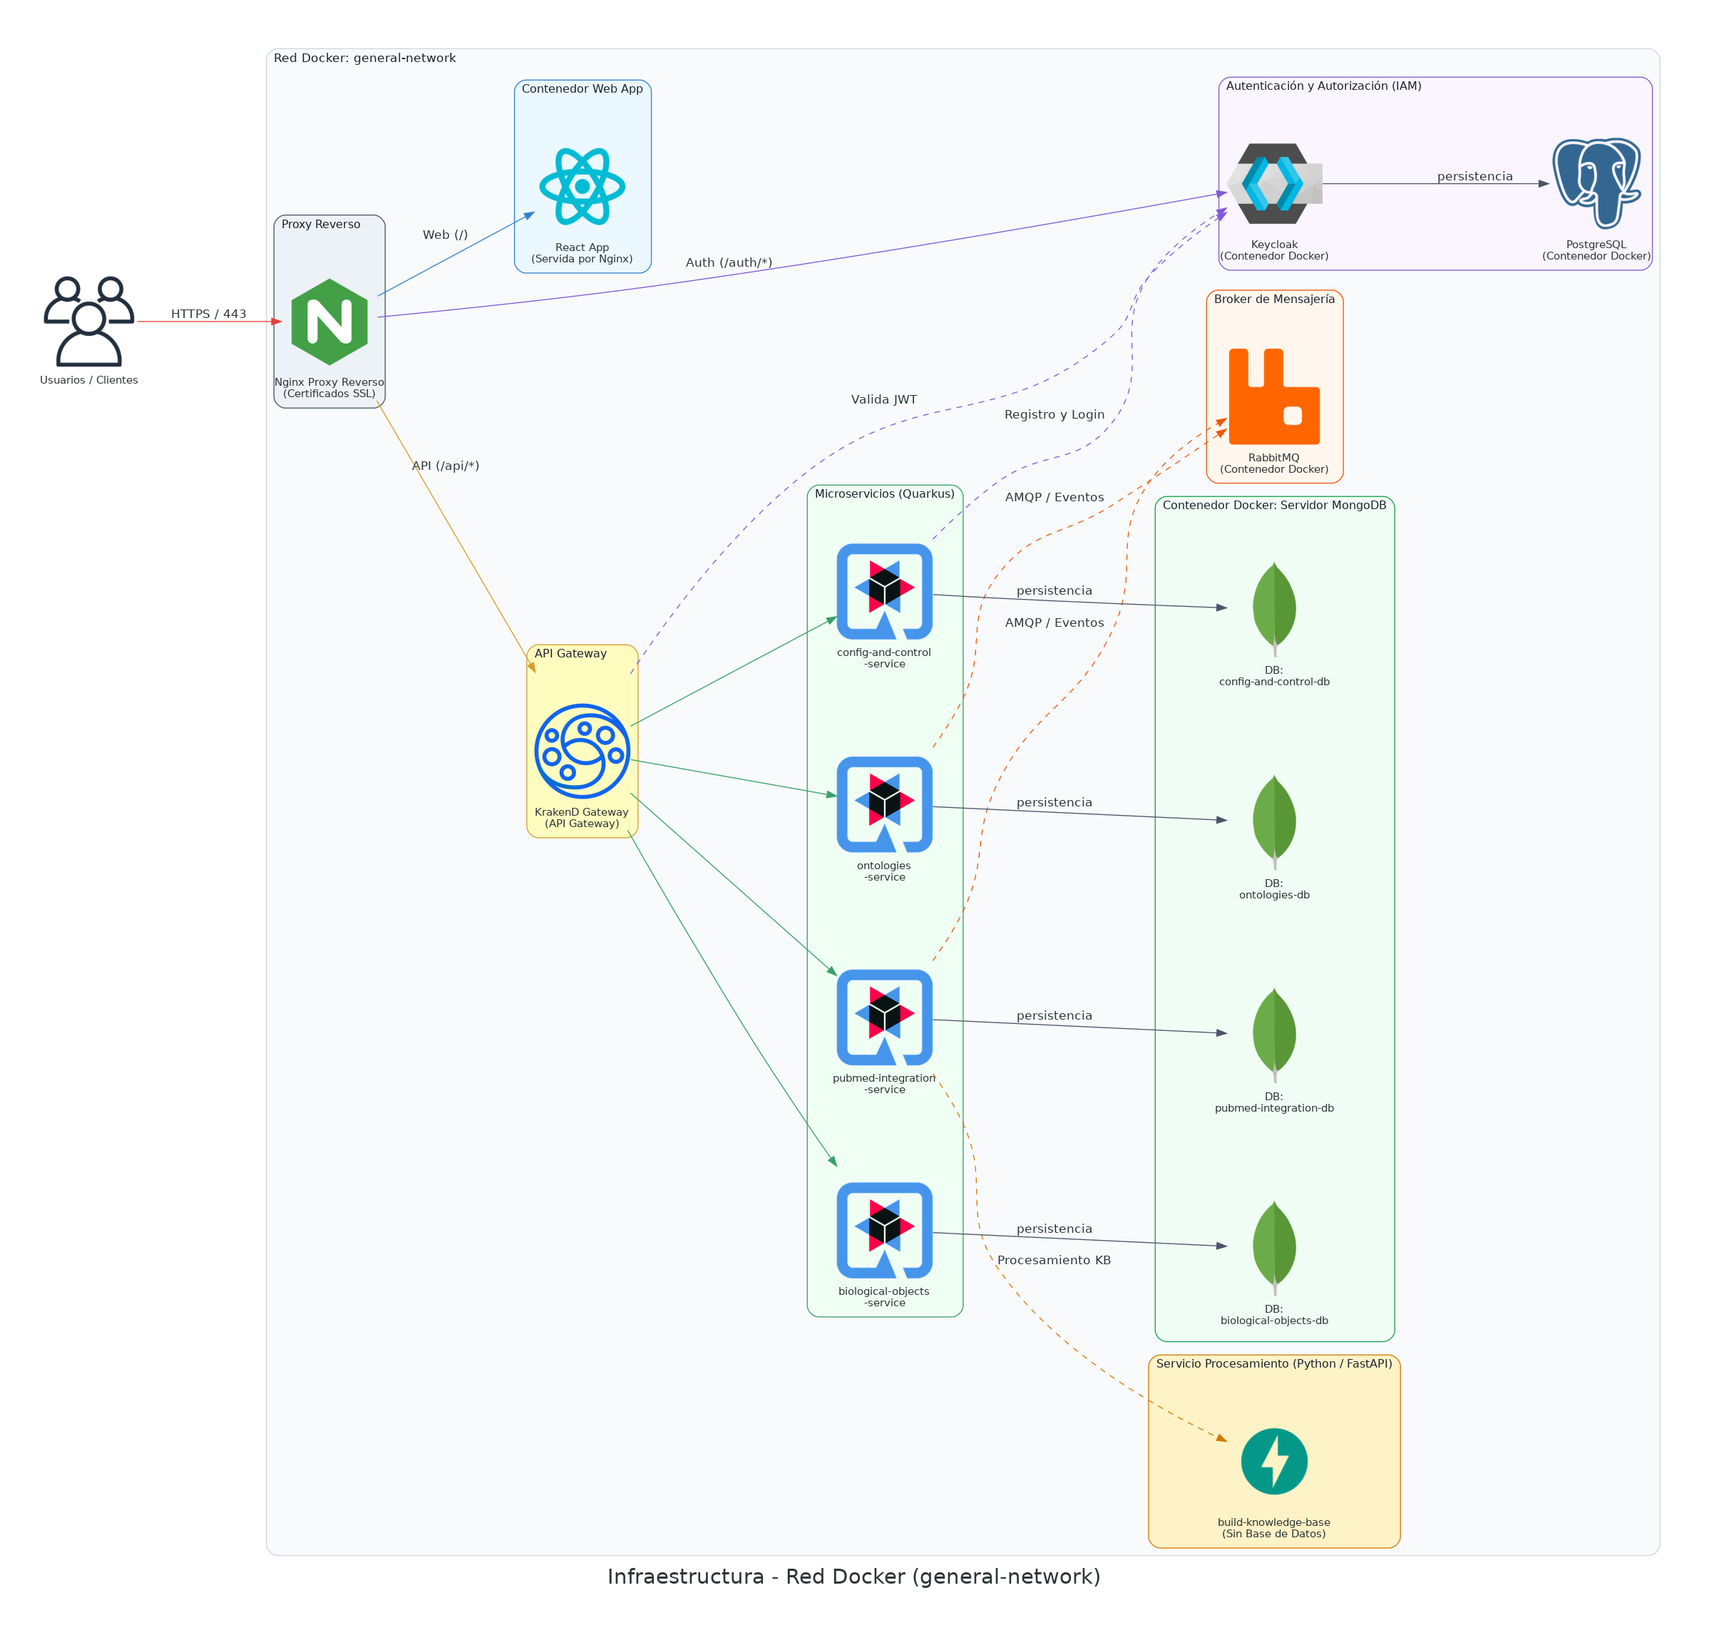
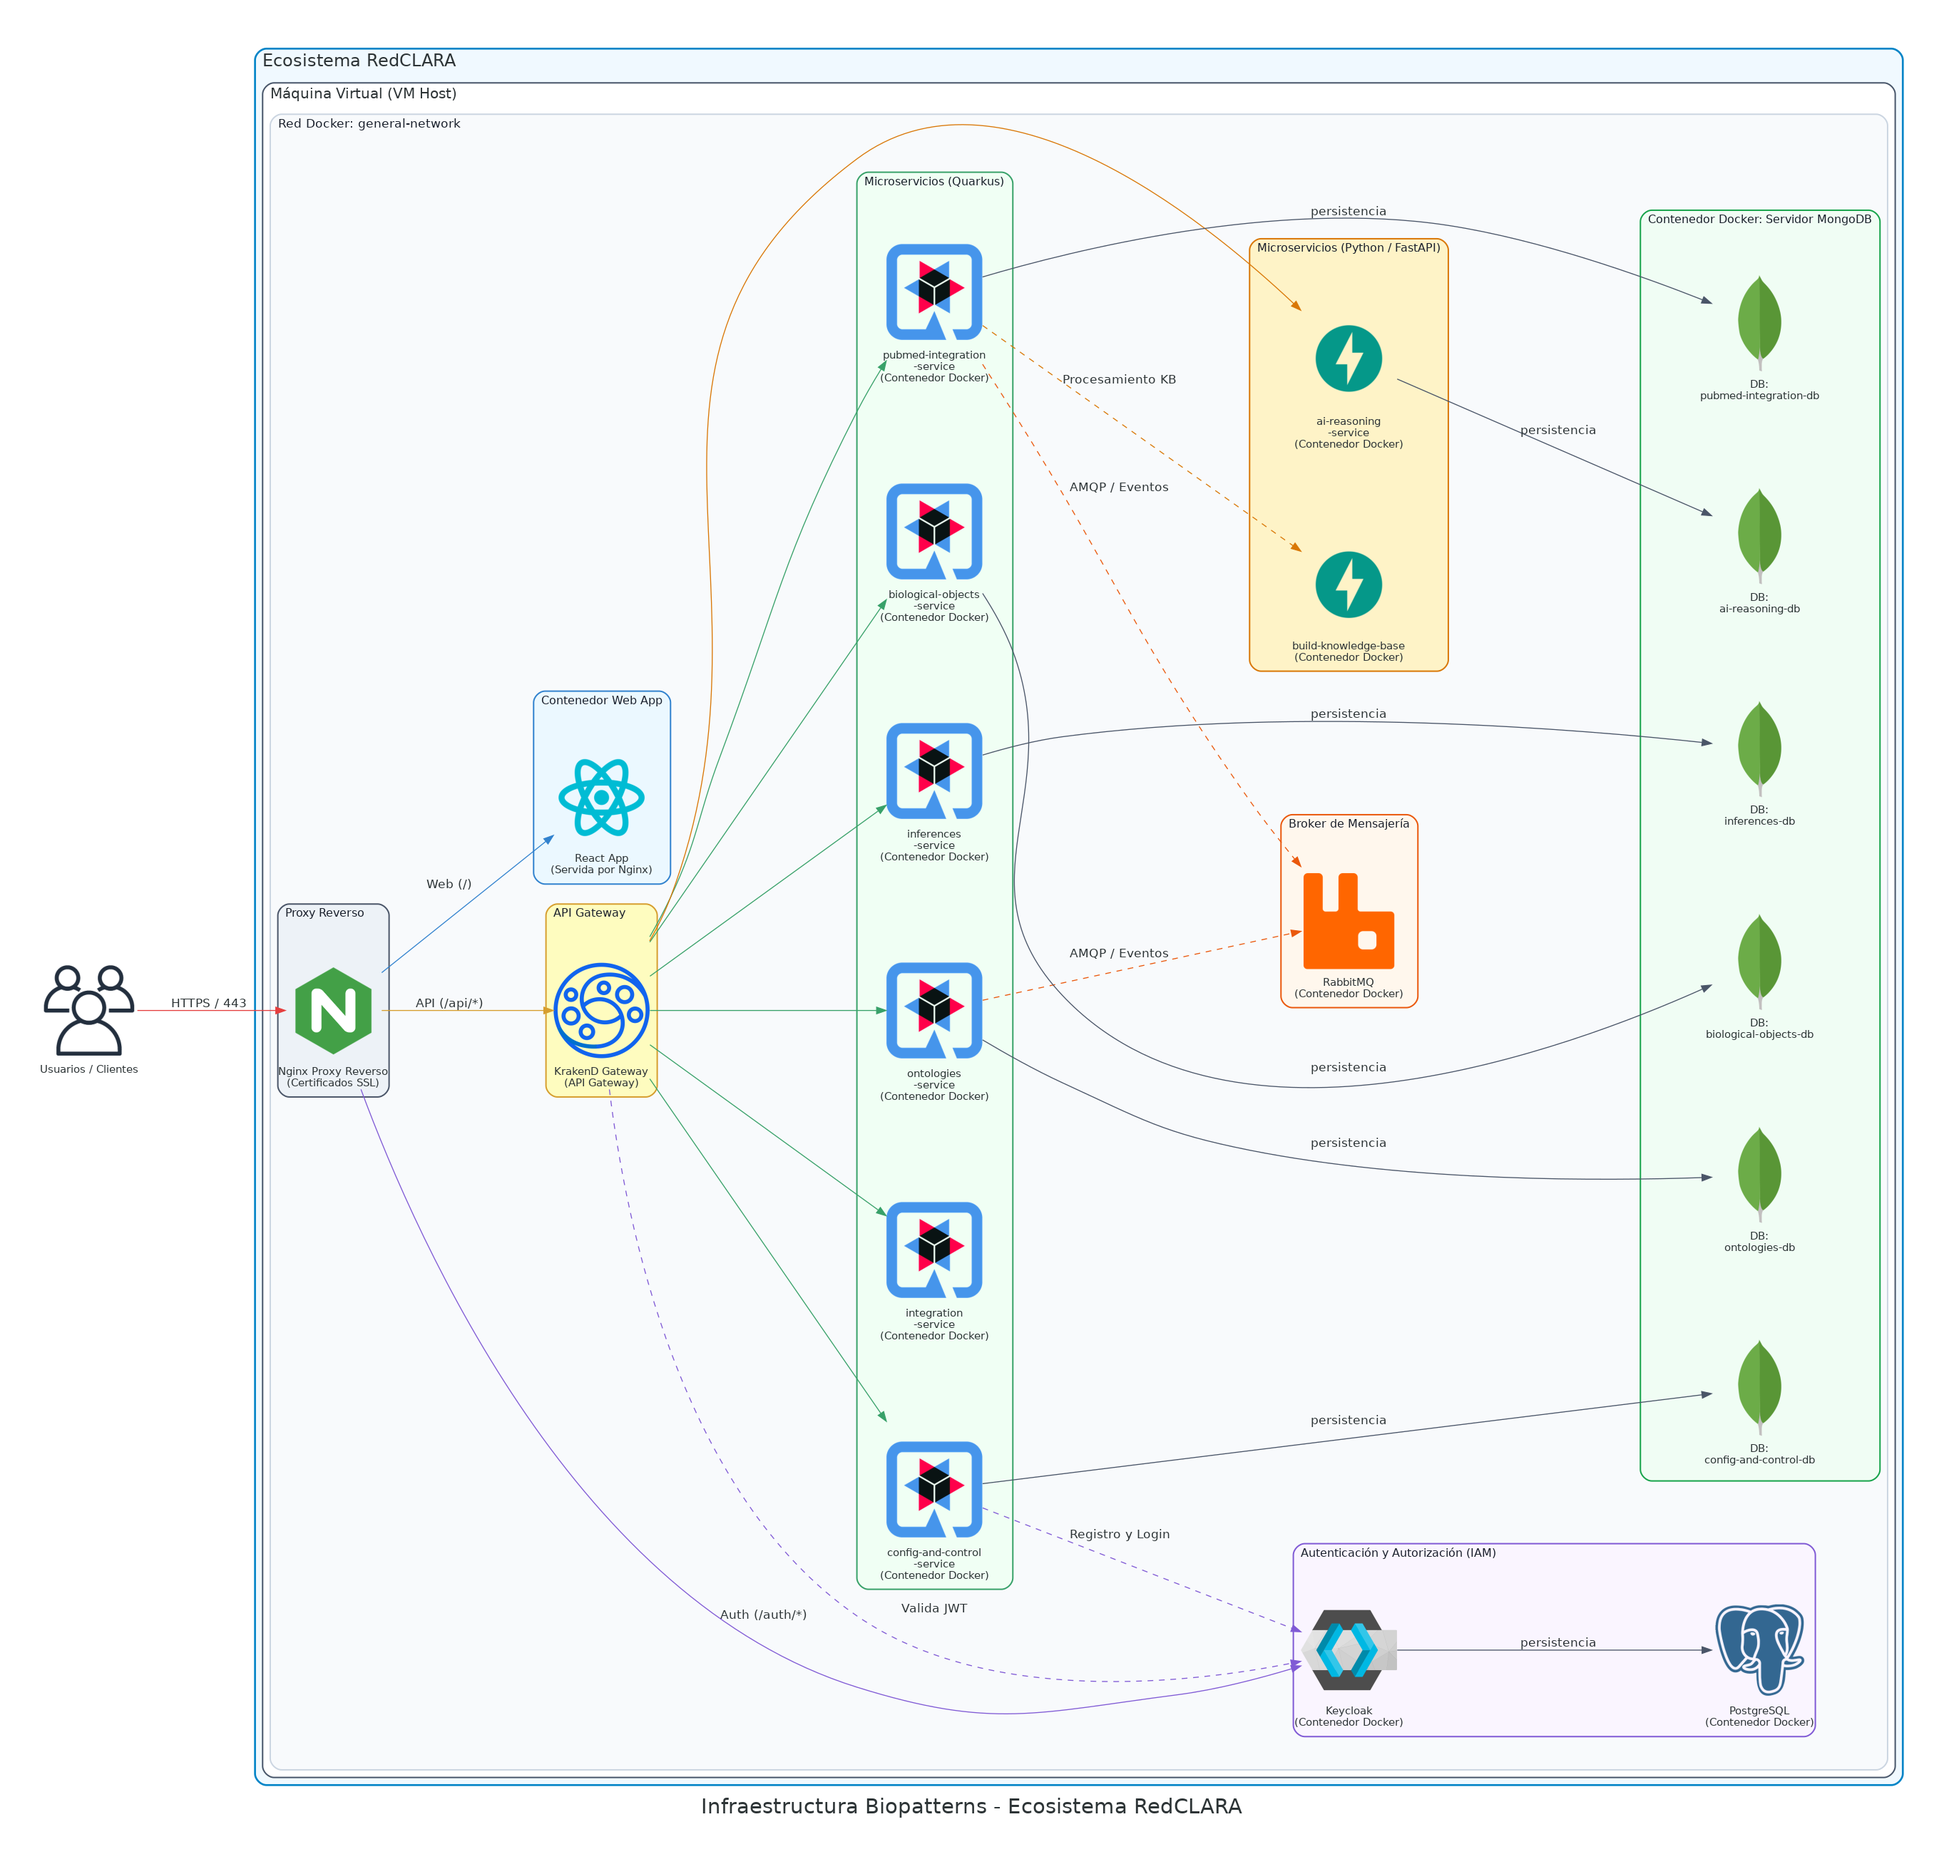
feat: Update infrastructure diagram and README for Ecosystem RedCLARA

diff --git a/infra/infra.py b/infra/infra.py
@@ -1,6 +1,6 @@
 #!/usr/bin/env python3
 """
-Diagrama de Infraestructura - Red Docker General Network
+Diagrama de Infraestructura - Red Docker General Network en VM RedCLARA
 Generado con la librería Diagrams de Python.
 """
 
@@ -33,7 +33,7 @@ node_attr = {
     "fontsize": "11",
 }
 
-cluster_attr = {
+cluster_docker_attr = {
     "fontsize": "13",
     "fontcolor": "#1A202C",
     "bgcolor": "#F8FAFC",
@@ -41,7 +41,7 @@ cluster_attr = {
 }
 
 with Diagram(
-    "Infraestructura - Red Docker (general-network)",
+    "Infraestructura Biopatterns - Ecosistema RedCLARA",
     show=False,
     direction="LR",
     filename="infra_architecture",
@@ -52,48 +52,59 @@ with Diagram(
     # Cliente / Usuario externo
     users = Users("Usuarios / Clientes")
 
-    # Red Docker Principal
-    with Cluster("Red Docker: general-network", graph_attr=cluster_attr):
+    # Ecosistema RedCLARA
+    with Cluster("Ecosistema RedCLARA", graph_attr={"bgcolor": "#F0F9FF", "pencolor": "#0284C7", "fontsize": "18", "penwidth": "2.0"}):
 
-        # 1. Contenedor Proxy Reverso con Nginx y terminación SSL
-        with Cluster("Proxy Reverso", graph_attr={"bgcolor": "#EDF2F7", "pencolor": "#4A5568"}):
-            proxy_nginx = Nginx("Nginx Proxy Reverso\n(Certificados SSL)")
+        # Máquina Virtual dentro de RedCLARA
+        with Cluster("Máquina Virtual (VM Host)", graph_attr={"bgcolor": "#FFFFFF", "pencolor": "#475569", "fontsize": "15", "penwidth": "1.5"}):
 
-        # 2. Contenedor KrakenD Gateway (con icono personalizado)
-        with Cluster("API Gateway", graph_attr={"bgcolor": "#FEFCBF", "pencolor": "#D69E2E"}):
-            gateway = Custom("KrakenD Gateway\n(API Gateway)", KRAKEND_ICON)
+            # Red Docker Principal dentro de la VM
+            with Cluster("Red Docker: general-network", graph_attr=cluster_docker_attr):
 
-        # 3. Contenedor Web App (React desplegado con Nginx)
-        with Cluster("Contenedor Web App", graph_attr={"bgcolor": "#EBF8FF", "pencolor": "#3182CE"}):
-            web_app = React("React App\n(Servida por Nginx)")
+                # 1. Contenedor Proxy Reverso con Nginx y terminación SSL
+                with Cluster("Proxy Reverso", graph_attr={"bgcolor": "#EDF2F7", "pencolor": "#4A5568"}):
+                    proxy_nginx = Nginx("Nginx Proxy Reverso\n(Certificados SSL)")
 
-        # 4. Broker de Mensajería Asíncrona (RabbitMQ)
-        with Cluster("Broker de Mensajería", graph_attr={"bgcolor": "#FFF7ED", "pencolor": "#EA580C"}):
-            rabbitmq = RabbitMQ("RabbitMQ\n(Contenedor Docker)")
+                # 2. Contenedor KrakenD Gateway (con icono personalizado)
+                with Cluster("API Gateway", graph_attr={"bgcolor": "#FEFCBF", "pencolor": "#D69E2E"}):
+                    gateway = Custom("KrakenD Gateway\n(API Gateway)", KRAKEND_ICON)
 
-        # 5. Contenedor de Procesamiento (FastAPI / Python - sin BD, no expuesto en Gateway)
-        with Cluster("Servicio Procesamiento (Python / FastAPI)", graph_attr={"bgcolor": "#FEF3C7", "pencolor": "#D97706"}):
-            build_kb_svc = FastAPI("build-knowledge-base\n(Sin Base de Datos)")
+                # 3. Contenedor Web App (React desplegado con Nginx)
+                with Cluster("Contenedor Web App", graph_attr={"bgcolor": "#EBF8FF", "pencolor": "#3182CE"}):
+                    web_app = React("React App\n(Servida por Nginx)")
 
-        # 6. Contenedores de Microservicios (Quarkus)
-        with Cluster("Microservicios (Quarkus)", graph_attr={"bgcolor": "#F0FFF4", "pencolor": "#38A169"}):
-            pubmed_svc = Quarkus("pubmed-integration\n-service")
-            onto_svc = Quarkus("ontologies\n-service")
-            bio_svc = Quarkus("biological-objects\n-service")
-            cfg_svc = Quarkus("config-and-control\n-service")
+                # 4. Broker de Mensajería Asíncrona (RabbitMQ)
+                with Cluster("Broker de Mensajería", graph_attr={"bgcolor": "#FFF7ED", "pencolor": "#EA580C"}):
+                    rabbitmq = RabbitMQ("RabbitMQ\n(Contenedor Docker)")
 
-        # 7. Contenedor único para el motor de Base de Datos MongoDB con bases de datos por servicio
-        with Cluster("Contenedor Docker: Servidor MongoDB", graph_attr={"bgcolor": "#F0FDF4", "pencolor": "#16A34A", "margin": "15"}):
-            pubmed_db = Mongodb("DB:\npubmed-integration-db")
-            onto_db = Mongodb("DB:\nontologies-db")
-            bio_db = Mongodb("DB:\nbiological-objects-db")
-            cfg_db = Mongodb("DB:\nconfig-and-control-db")
+                # 5. Contenedores de Microservicios (Quarkus)
+                with Cluster("Microservicios (Quarkus)", graph_attr={"bgcolor": "#F0FFF4", "pencolor": "#38A169"}):
+                    pubmed_svc = Quarkus("pubmed-integration\n-service\n(Contenedor Docker)")
+                    onto_svc = Quarkus("ontologies\n-service\n(Contenedor Docker)")
+                    bio_svc = Quarkus("biological-objects\n-service\n(Contenedor Docker)")
+                    cfg_svc = Quarkus("config-and-control\n-service\n(Contenedor Docker)")
+                    integration_svc = Quarkus("integration\n-service\n(Contenedor Docker)")
+                    inference_svc = Quarkus("inferences\n-service\n(Contenedor Docker)")
 
-        # 8. Contenedores de Autenticación (Keycloak con icono personalizado y PostgreSQL)
-        with Cluster("Autenticación y Autorización (IAM)", graph_attr={"bgcolor": "#FAF5FF", "pencolor": "#805AD5"}):
-            keycloak = Custom("Keycloak\n(Contenedor Docker)", KEYCLOAK_ICON)
-            postgres_db = PostgreSQL("PostgreSQL\n(Contenedor Docker)")
-            keycloak >> Edge(label="persistencia", color="#4A5568") >> postgres_db
+                # 6. Microservicios en Python / FastAPI
+                with Cluster("Microservicios (Python / FastAPI)", graph_attr={"bgcolor": "#FEF3C7", "pencolor": "#D97706"}):
+                    ai_reasoning_svc = FastAPI("ai-reasoning\n-service\n(Contenedor Docker)")
+                    build_kb_svc = FastAPI("build-knowledge-base\n(Contenedor Docker)")
+
+                # 7. Contenedor único para el motor de Base de Datos MongoDB con bases de datos por servicio
+                with Cluster("Contenedor Docker: Servidor MongoDB", graph_attr={"bgcolor": "#F0FDF4", "pencolor": "#16A34A", "margin": "15"}):
+                    pubmed_db = Mongodb("DB:\npubmed-integration-db")
+                    onto_db = Mongodb("DB:\nontologies-db")
+                    bio_db = Mongodb("DB:\nbiological-objects-db")
+                    cfg_db = Mongodb("DB:\nconfig-and-control-db")
+                    inference_db = Mongodb("DB:\ninferences-db")
+                    ai_reasoning_db = Mongodb("DB:\nai-reasoning-db")
+
+                # 8. Contenedores de Autenticación (Keycloak con icono personalizado y PostgreSQL)
+                with Cluster("Autenticación y Autorización (IAM)", graph_attr={"bgcolor": "#FAF5FF", "pencolor": "#805AD5"}):
+                    keycloak = Custom("Keycloak\n(Contenedor Docker)", KEYCLOAK_ICON)
+                    postgres_db = PostgreSQL("PostgreSQL\n(Contenedor Docker)")
+                    keycloak >> Edge(label="persistencia", color="#4A5568") >> postgres_db
 
     # Conexiones externas
     users >> Edge(label="HTTPS / 443", color="#E53E3E") >> proxy_nginx
@@ -106,17 +117,22 @@ with Diagram(
     # KrakenD valida los tokens JWT contra Keycloak
     gateway >> Edge(label="Valida JWT", color="#805AD5", style="dashed") >> keycloak
 
-    # KrakenD distribuye hacia los microservicios Quarkus
+    # KrakenD distribuye hacia los microservicios
     gateway >> Edge(color="#38A169") >> pubmed_svc
     gateway >> Edge(color="#38A169") >> onto_svc
     gateway >> Edge(color="#38A169") >> bio_svc
     gateway >> Edge(color="#38A169") >> cfg_svc
+    gateway >> Edge(color="#38A169") >> integration_svc
+    gateway >> Edge(color="#38A169") >> inference_svc
+    gateway >> Edge(color="#D97706") >> ai_reasoning_svc
 
     # Microservicios persisten en sus respectivas BDs dentro del contenedor de MongoDB
     pubmed_svc >> Edge(label="persistencia", color="#4A5568") >> pubmed_db
     onto_svc >> Edge(label="persistencia", color="#4A5568") >> onto_db
     bio_svc >> Edge(label="persistencia", color="#4A5568") >> bio_db
     cfg_svc >> Edge(label="persistencia", color="#4A5568") >> cfg_db
+    inference_svc >> Edge(label="persistencia", color="#4A5568") >> inference_db
+    ai_reasoning_svc >> Edge(label="persistencia", color="#4A5568") >> ai_reasoning_db
 
     # Integración con RabbitMQ (comunicación asíncrona por colas/eventos)
     pubmed_svc >> Edge(label="AMQP / Eventos", color="#EA580C", style="dashed") >> rabbitmq

diff --git a/infra/README.md b/infra/README.md
@@ -59,7 +59,7 @@ El script `infra.py` hace uso de nodos `Custom` para los componentes que requier
 
 ### 1. Diagrama de Infraestructura de Contenedores (`infra.py`)
 
-Genera la topología de red Docker (`general-network`), proxy SSL, KrakenD Gateway, microservicios Quarkus, servidor MongoDB, Keycloak, PostgreSQL, RabbitMQ y el servicio FastAPI:
+Genera la topología de la **Máquina Virtual** hospedada dentro del **Ecosistema RedCLARA**, que contiene la red Docker (`general-network`), proxy SSL, KrakenD Gateway, microservicios Quarkus y FastAPI, servidor MongoDB, Keycloak, PostgreSQL y RabbitMQ:
 
 ```bash
 python3 infra.py
@@ -82,19 +82,30 @@ python3 deploy.py
 ## 🏗 Descripción de los Diagramas
 
 ### A. Infraestructura (`infra_architecture.png`)
-* **Red Docker**: `general-network`.
+* **Entorno Host**: **Ecosistema RedCLARA** $\rightarrow$ **Máquina Virtual (VM Host)**.
+* **Red de Contenedores**: `Red Docker: general-network`.
 * **Punto de Entrada**: Nginx Reverse Proxy con terminación SSL (`HTTPS / 443`).
 * **Enrutamiento**:
   * `/` $\rightarrow$ Web App (React + Nginx).
   * `/api/*` $\rightarrow$ KrakenD Gateway.
   * `/auth/*` $\rightarrow$ Keycloak (IAM) con base de datos dedicada PostgreSQL.
 * **Seguridad API**: KrakenD valida tokens JWT directamente contra Keycloak.
-* **Microservicios Backend (Quarkus)**:
+* **Microservicios Backend en Quarkus**:
   * `config-and-control-service` (interactúa con Keycloak para registro y login).
   * `ontologies-service` y `pubmed-integration-service` (integrados con colas/eventos en **RabbitMQ**).
   * `biological-objects-service`.
-* **Procesamiento Interno**: `build-knowledge-base` (Python/FastAPI, sin base de datos ni exposición pública, consumido por `pubmed-integration-service`).
-* **Persistencia NoSQL**: Un único contenedor Docker para el servidor **MongoDB** con bases de datos lógicas aisladas para cada microservicio.
+  * `integration-service`.
+  * `inferences-service`.
+* **Microservicios en Python / FastAPI**:
+  * `ai-reasoning-service`: Microservicio de razonamiento de IA expuesto a través de KrakenD y con base de datos propia en MongoDB (`ai-reasoning-db`).
+  * `build-knowledge-base`: Microservicio interno sin base de datos ni exposición pública, consumido directamente por `pubmed-integration-service`.
+* **Persistencia NoSQL**: Un único contenedor Docker para el servidor **MongoDB** con bases de datos lógicas aisladas para cada microservicio:
+  * `config-and-control-db`
+  * `ontologies-db`
+  * `pubmed-integration-db`
+  * `biological-objects-db`
+  * `inferences-db`
+  * `ai-reasoning-db`
 
 ---
 
